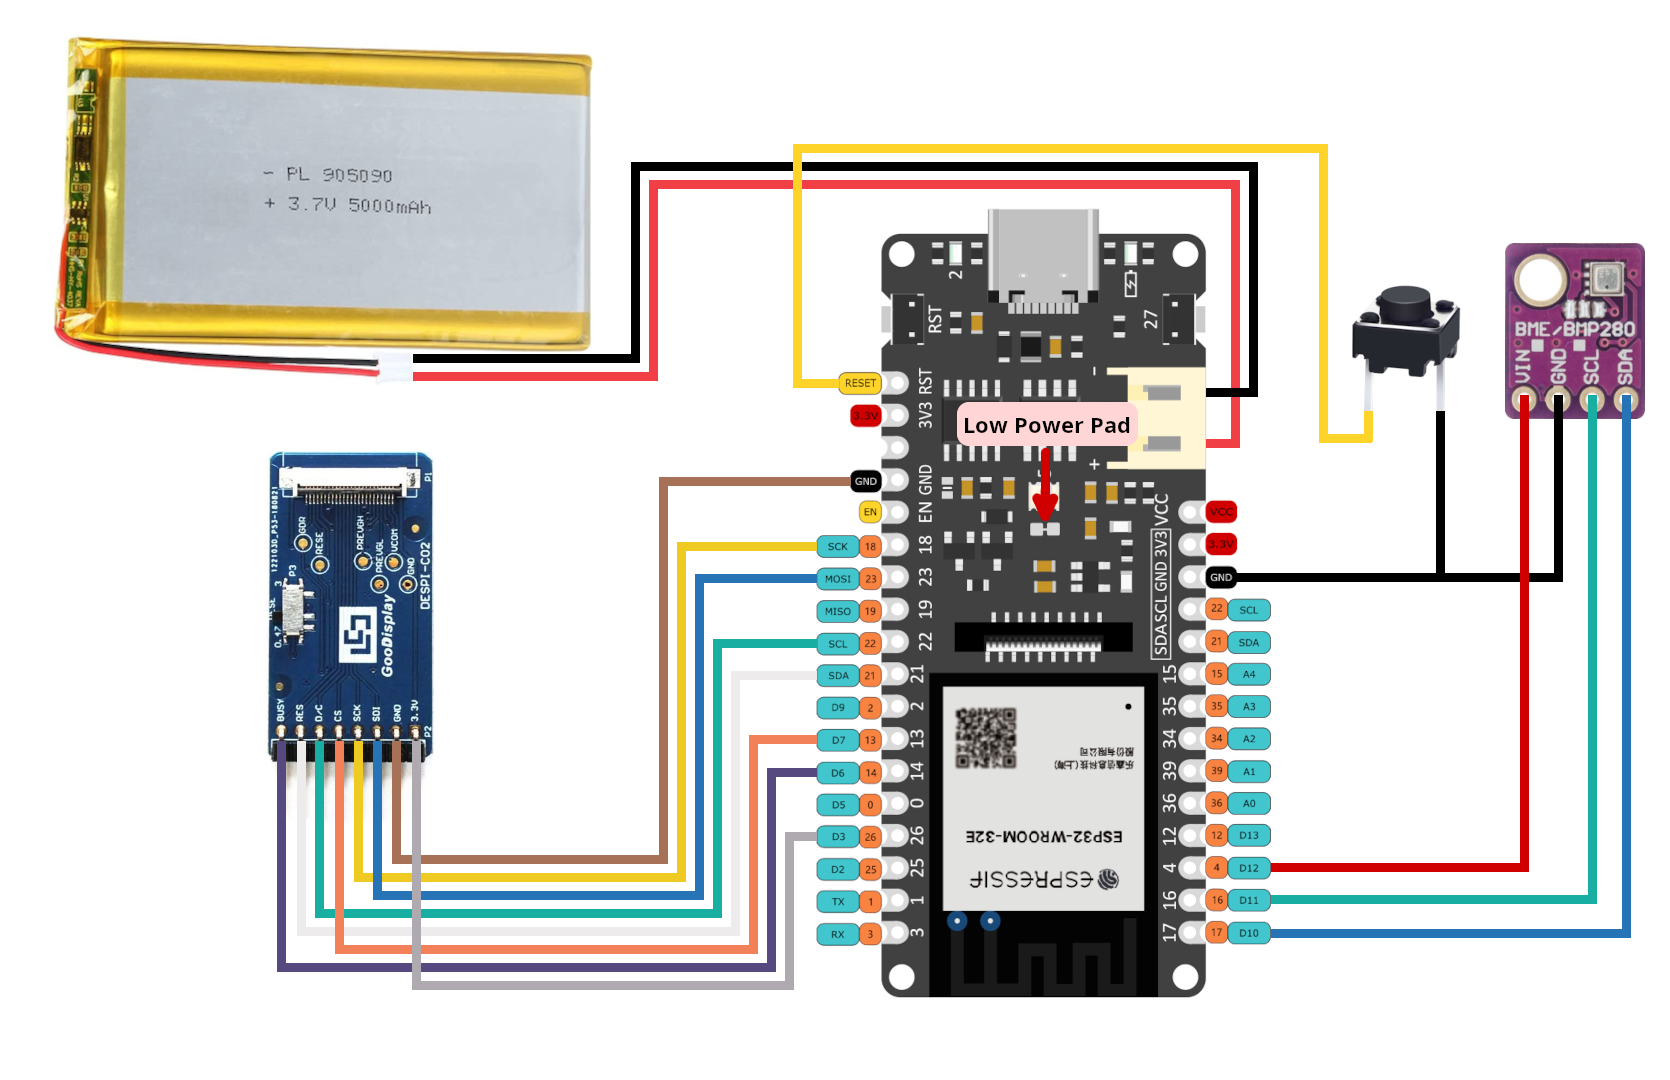
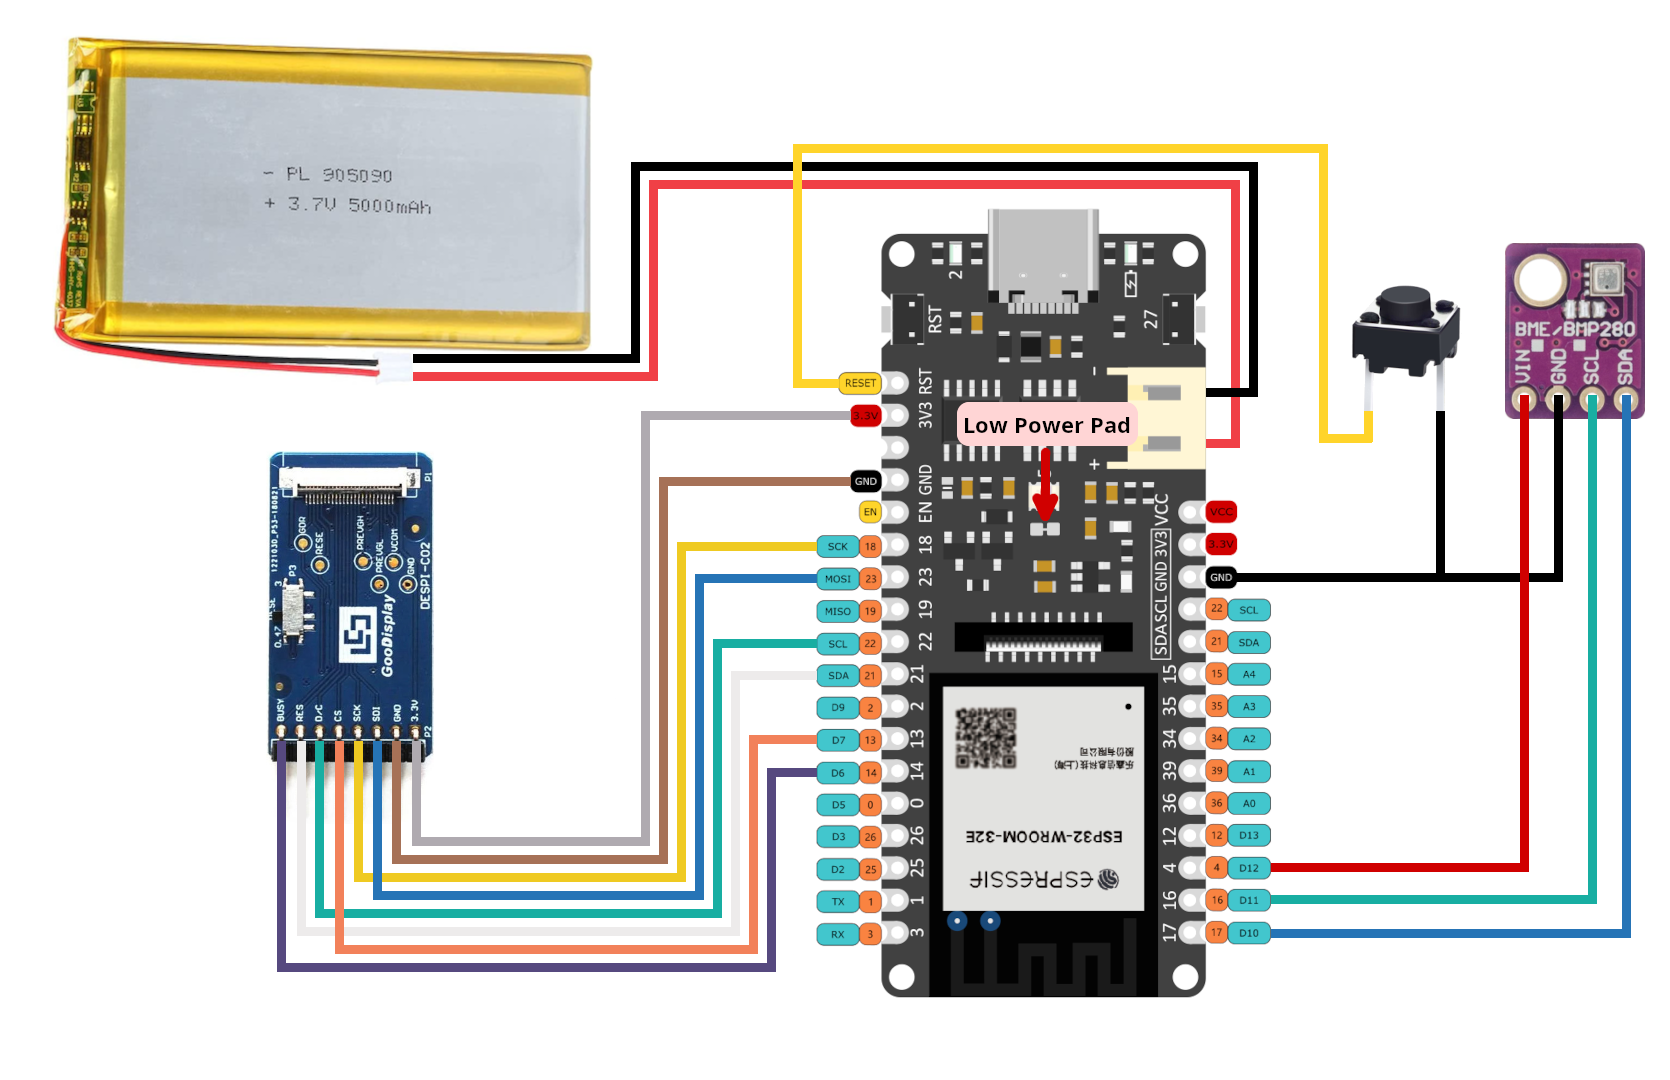
Restructured readme for clarity. Updated wiring diagram

Changed region(s): [[0.2491, 0.3667, 0.4982, 0.7944], [0.2491, 0.7639, 0.4982, 0.9167]]

diff --git a/README.md b/README.md
@@ -1,6 +1,6 @@
 # ESP32 E-Paper Weather Display
 
-This is a weather display powered by a wifi-enabled ESP32 microcontroller and a 7.5in E-Paper (aka E-ink) display. Current and forecasted weather data is obtained from the OpenWeatherMap API. A sensor provides the display with accurate indoor temperature and humidity.
+A low-power weather display using a wifi-enabled ESP32 microcontroller and a 7.5" E-Paper display. Weather data is fetched from the OpenWeatherMap API, and an onboard sensor provides indoor temperature and humidity.
 
 <p float="left">
   <img src="showcase/assembled-demo-raleigh-front.jpg" />
@@ -10,50 +10,61 @@ This is a weather display powered by a wifi-enabled ESP32 microcontroller and a 
   <img src="showcase/assembled-demo-bottom-cover-removed.jpg" width="49%" />
 </p>
 
-The project draws ~14μA when sleeping and an estimated average of ~83mA during its ~15s wake period. The display can be configured to update as frequently as desired. When the refresh interval is set to 30 minutes, the device will run for >6 months on a single 5000mAh battery. The project displays accurate battery life percentage and can be recharged via a USB-C cable connected to a wall adapter or computer.
+## Features
 
-There are configuration options for everything from location, time/date formats, units, and language to air quality index scale and hourly outlook graph bounds.
+- Ultra-low power consumption: ~14μA in sleep, ~83mA during refresh (~15s).
+
+- Long battery life: 6-12 months on a 5000mAh battery with 30-minute update frequency.
+
+- Customizable display: Supports multiple languages, units, time/date formats, AQI scales, personalization options, and much more.
+
+- Easy recharging: USB-C charging with battery monitoring.
 
 The hourly outlook graph (bottom right) shows a line indicating temperature and shaded bars indicating probability of precipitation (or optionally volume of precipitation).
 
-Here are two examples utilizing various configuration options:
+Here are two (slightly outdated) examples utilizing various configuration options:
 
 <p float="left">
   <img src="showcase/demo-new-york.jpg" width="49%" />
   <img src="showcase/demo-london.jpg" width="49%" />
 </p>
 
-
 ## Contents
 
--   [Setup Guide](#setup-guide)
-    -   [Hardware](#hardware)
-    -   [Wiring](#wiring)
-    -   [Configuration, Compilation, and Upload](#configuration-compilation-and-upload)
-    -   [OpenWeatherMap API Key](#openweathermap-api-key)
--   [Error Messages and Troubleshooting](#error-messages-and-troubleshooting)
-    -   [Low Battery](#low-battery)
-    -   [WiFi Connection](#wifi-connection)
-    -   [API Error](#api-error)
-    -   [Time Server Error](#time-server-error)
--   [Licensing](#licensing)
+- [Required Components](#required-components)
+  - [Panel Support](#panel-support)
+  - [Enclosure Options](#enclosure-options)
+  - [Solder-Free Component Selection](#solder-free-component-selection-optional)
+- [Setup Guide](#setup-guide)
+  - [Wiring](#wiring)
+  - [Configuration, Compilation, and Upload](#configuration-compilation-and-upload)
+  - [OpenWeatherMap API Key](#openweathermap-api-key)
+- [Error Messages and Troubleshooting](#error-messages-and-troubleshooting)
+  - [Low Battery](#low-battery)
+  - [WiFi Connection](#wifi-connection)
+  - [API Error](#api-error)
+  - [Time Server Error](#time-server-error)
+- [Licensing](#licensing)
 
 
-## Setup Guide
+## Required Components
 
-### Hardware
+  | Component Type  | Component                                    | Notes                                                     | Link                                                                    |
+  |-----------------|----------------------------------------------|-----------------------------------------------------------|-------------------------------------------------------------------------|
+  | ESP32           | FireBeetle 2 ESP32-E                         | Features low-power design, USB-C, and battery management. | Available [here](https://www.dfrobot.com/product-2195.html).            |
+  | E-Paper Display | See [Panel Support](#panel-support).         | See [Panel Support](#panel-support).                      | See [Panel Support](#panel-support).                                    |
+  | Adapter Board   | DESPI-C02                                    | Waveshare HATs (rev 2.2/2.3) are not recommended.         | Available [here](https://www.aliexpress.us/item/3256804446769469.html). |
+  | Sensor          | BME280                                       | Temperature, humidity, and pressure. 3.3V/5V compatible.  | Available from multiple vendors.                                        |
+  | Battery         | 3.7V LiPo w/ JST-PH2.0 connector             | Any capacity (e.g., 5000mAh for 6+ months runtime)        | Available from multiple vendors.                                        |
+  | Enclosure       | See [Enclosure Options](#enclosure-options). | See [Enclosure Options](#enclosure-options).              | See [Enclosure Options](#enclosure-options).                            |
 
-7.5inch (800×480) E-Paper Display
+Other items needed:
+- Wires ("Jumper Wires" if looking to minimize/avoid soldering).
+- Solder Iron + Solder (unless following [Solder-Free Component Selection](#solder-free-component-selection-optional)).
+- Linux, Windows, or MacOS computer (used to configure and install ESP32 firmware).
+- Push Button (optional, if you want a reset button mounted on your enslosure, else you can use the on-board reset button).
 
-- Advantages of E-Paper
-  - Ultra Low Power Consumption - E-Paper (aka E-Ink) displays are ideal for low-power applications that do not require frequent display refreshes. E-Paper displays only draw power when refreshing the display and do not have a backlight. Images will remain on the screen even when power is removed.
-
-- Limitations of E-Paper:
-  - Colors - E-Paper has traditionally been limited to just black and white, but in recent years 3-color E-Paper screens have started showing up.
-
-  - Refresh Times and Ghosting - E-Paper displays are highly susceptible to ghosting effects if refreshed too quickly. To avoid this, E-Paper displays often take a few seconds to refresh(4s for the unit used in this project) and will alternate between black and white a few times, which can be distracting.
-
-- Panel support:
+### Panel Support
 
   Waveshare and Good Display make equivalent panels. Either variant will work.
 
@@ -70,62 +81,10 @@ Here are two examples utilizing various configuration options:
 
   This software has limited support for accent colors. E-paper panels with additional colors tend to have longer refresh times, which will reduce battery life.
 
-DESPI-C02 Adapter Board
+### Enclosure Options
 
-- No level converters, which makes it better for low-power use with 3.3V processors compared to the Waveshare HAT.
+You'll want a nice way to show off your project. Here are a few popular choices.
 
-- The Waveshare HATs (rev 2.2/2.3) are not recommended. Their compatibility with this project is not regularly tested.
-
-- https://www.e-paper-display.com/products_detail/productId=403.html
-  
-- https://www.aliexpress.us/item/3256804446769469.html
-
-
-FireBeetle 2 ESP32-E Microcontroller
-
-- Why the ESP32?
-
-  - Onboard WiFi.
-
-  - 520kB of RAM and 4MB of FLASH, enough to store lots of icons and fonts.
-
-  - Low power consumption.
-
-  - Small size, many small development boards available.
-
-- Why the FireBeetle 2 ESP32-E
-
-  - Drobot's FireBeetle ESP32 models are optimized for low-power consumption (<https://diyi0t.com/reduce-the-esp32-power-consumption/>). The Drobot's FireBeetle 2 ESP32-E variant offers USB-C, but older versions of the board with Micro-USB would work fine too.
-
-  - Firebeetle ESP32 models include onboard charging circuitry for a 3.7v lithium-ion(LiPo) battery.
-
-  - FireBeetle ESP32 models include onboard circuitry to monitor battery voltage of a battery connected to its JST-PH2.0 connector.
-
-
-- <https://www.dfrobot.com/product-2195.html>
-
-
-BME280 - Pressure, Temperature, and Humidity Sensor
-
-
-- Provides accurate indoor temperature and humidity.
-
-- Much faster than the DHT22, which requires a 2-second wait before reading temperature and humidity samples.
-
-
-3.7V Lipo Battery w/ 2 Pin JST Connector
-
-
-- Size is up to you. I used a 5000mah battery so that the device can operate on a single charge for >6 months.
-
-
-- The battery can be charged by plugging the FireBeetle ESP32 into the wall via the USB-C connector while the battery is plugged into the ESP32's JST connector.
-
-  > **Warning**
-  > The polarity of JST-PH2.0 connectors is not standardized! You may need to swap the order of the wires in the connector.
-
-Stand/Frame
-- You'll want a nice way to show off your project. Here are a few popular choices.
 - DIY Wooden
   - I made a small stand by hollowing out a piece of wood from the bottom. On the back, I used a short USB extension cable so that I can charge the battery without needing to remove the components from the stand. I also wired a small reset button to refresh the display manually. Additionally, I 3d printed a cover for the bottom, which is held on by magnets. The E-paper screen is very thin, so I used a thin piece of acrylic to support it.
   - Measurements:
@@ -152,16 +111,29 @@ Stand/Frame
   - If you want to share your own 3D printable designs, your contributions are highly encouraged and welcome!
 - Picture Frame
 
+### Solder-Free Component Selection (Optional)
+
+This project can be completed without any soldering, if you choose your component selection carefully.
+- Buy "Jumper Wires" to connect your components.
+- Buy the [FireBeetle 2 ESP32-E w/ Headers](https://www.dfrobot.com/product-2231.html).
+- Buy a BME280 with headers soldered from the factory.
+- Buy a reset switch that is compatible with jumper wires.
+
+
+## Setup Guide
 
 ### Wiring
 
-Pin connections are defined in [config.cpp](platformio/src/config.cpp).
+- The battery can be charged by plugging the FireBeetle ESP32 into the wall via the USB-C connector while the battery is plugged into the ESP32's JST connector.
 
-If you are using the FireBeetle 2 ESP32-E, you can use the connections I used or change them how you would like.
-
-I have included 2 wiring diagrams. One for the Waveshare HAT rev2.2 and another using the recommended DESPI-C02.
+  > **Warning**
+  > The polarity of JST-PH2.0 connectors is not standardized! You may need to swap the order of the wires in the connector.
 
 NOTE: Waveshare now ships revision 2.3 of their e-paper HAT (no longer rev 2.2 ). Rev 2.3 has an additional `PWR` pin (not depicted in the wiring diagrams below); connect this pin to 3.3V.
+
+IMPORTANT: The DESPI-C02 adapter has one physical switch that MUST be set correctly for the display to work.
+
+- RESE: Set switch to position 0.47.
 
 IMPORTANT: The Waveshare E-Paper Driver HAT has two physical switches that MUST be set correctly for the display to work.
 
@@ -169,21 +141,13 @@ IMPORTANT: The Waveshare E-Paper Driver HAT has two physical switches that MUST 
 
 - Interface Config: Set switch to position 0.
 
-IMPORTANT: The DESPI-C02 adapter has one physical switch that MUST be set correctly for the display to work.
-
-- RESE: Set switch to position 0.47.
-
 Cut the low power pad for even longer battery life.
 
 - From <https://wiki.dfrobot.com/FireBeetle_Board_ESP32_E_SKU_DFR0654>
 
   > Low Power Pad: This pad is specially designed for low power consumption. It is connected by default. You can cut off the thin wire in the middle with a knife to disconnect it. After disconnection, the static power consumption can be reduced by 500 μA. The power consumption can be reduced to 13 μA after controlling the maincontroller enter the sleep mode through the program. Note: when the pad is disconnected, you can only drive RGB LED light via the USB Power supply.
 
-<p float="left">
-  <img src="showcase/wiring_diagram_despi-c02.png" width="49%" />
-  <img src="showcase/wiring_diagram_waveshare_rev22.png" width="49%" />
-  <img src="showcase/demo-tucson.jpg" width="32%" />
-</p>
+![Wiring diagram with DESPI-C02 driver board.](showcase/wiring_diagram_despi-c02.png)
 
 
 ### Configuration, Compilation, and Upload
@@ -204,7 +168,7 @@ PlatformIO for VSCode is used for managing dependencies, code compilation, and u
 
 5. Configure Options.
 
-   - Most configuration options are located in [config.cpp](platformio/src/config.cpp), with a few  in [config.h](platformio/include/config.h). Locale/language options can also be found in include/locales/locale_*.inc.
+   - Most configuration options are located in [config.cpp](platformio/src/config.cpp), with a few  in [config.h](platformio/include/config.h).
 
    - Important settings to configure in config.cpp:
 
@@ -217,8 +181,6 @@ PlatformIO for VSCode is used for managing dependencies, code compilation, and u
      - Time and date formats.
 
      - Sleep duration.
-
-     - Pin connections for E-Paper (SPI), BME280 (I2C), and battery voltage (ADC).
 
    - Important settings to configure in config.h:
 
@@ -239,6 +201,7 @@ PlatformIO for VSCode is used for managing dependencies, code compilation, and u
       - If using a FireBeetle 2 ESP32-E and you receive the error `Wrong boot mode detected (0x13)! The chip needs to be in download mode.` unplug the power from the board, connect GPIO0 ([labeled 0/D5](https://wiki.dfrobot.com/FireBeetle_Board_ESP32_E_SKU_DFR0654#target_5)) to GND, and power it back up to put the board in download mode.
 
       - If you are getting other errors during the upload process, you may need to install drivers to allow you to upload code to the ESP32.
+
 ### OpenWeatherMap API Key
 
 Sign up here to get an API key; it's free. <https://openweathermap.org/api>
